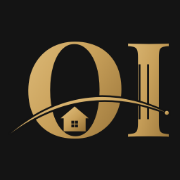
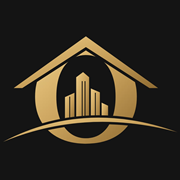
Marca nova: Alex Oliveira & Giselly Oliveira - Corretores de Imoveis
Logo nova (monograma O com telhado e predios) no cabecalho, favicon e
icones; logo completa como imagem de compartilhamento e no topo da pagina
Sobre. Textos da home e da lista de imoveis no plural.

Changed region(s): [[0.0278, 0.1944, 0.9722, 0.8056], [0.5833, 0.2778, 0.6111, 0.3056]]

diff --git a/src/config.ts b/src/config.ts
@@ -1,14 +1,14 @@
 // ===== EDITE AQUI: seus dados aparecem no site inteiro =====
 export const SITE = {
-  nome: "Oliveira's", // 1ª linha do nome no cabeçalho
-  subtitulo: 'Imobiliária', // 2ª linha do nome no cabeçalho
-  marca: "Oliveira's Imobiliária", // nome completo: título da aba, Google, rodapé
+  nome: 'Alex & Giselly Oliveira', // 1ª linha do nome no cabeçalho
+  subtitulo: 'Corretores de Imóveis', // 2ª linha do nome no cabeçalho
+  marca: 'Alex Oliveira & Giselly Oliveira', // nome completo: título da aba, Google, rodapé
   slogan: 'Seu próximo imóvel está aqui', // título do topo da página inicial
   cidade: 'Itanhaém – SP',
   email: '', // preencher quando criar o e-mail do domínio. Vazio = esconde do rodapé
   instagram: 'alexoliveira.imoveis',
   descricao:
-    'Imobiliária em Itanhaém – SP. Compra, venda e locação de casas, apartamentos e terrenos, com atendimento do primeiro contato até a assinatura.',
+    'Corretores de imóveis em Itanhaém – SP. Compra, venda e locação de casas, apartamentos e terrenos, com atendimento do primeiro contato até a assinatura.',
 };
 
 // ===== CORRETORES =====

diff --git a/public/admin/index.html b/public/admin/index.html
@@ -4,7 +4,7 @@
   <meta charset="utf-8" />
   <meta name="viewport" content="width=device-width, initial-scale=1" />
   <meta name="robots" content="noindex" />
-  <title>Painel – Oliveira's Imobiliária</title>
+  <title>Painel – Alex & Giselly Oliveira</title>
 </head>
 <body>
   <script src="https://unpkg.com/decap-cms@^3.0.0/dist/decap-cms.js"></script>

diff --git a/CLAUDE.md b/CLAUDE.md
@@ -1,13 +1,13 @@
-# Projeto: Oliveira's Imobiliária (site dos corretores Alex Oliveira e Giselly Oliveira)
+# Projeto: Alex Oliveira & Giselly Oliveira – Corretores de Imóveis
 
-Site da Oliveira's Imobiliária, com dois corretores: Alex Oliveira e Giselly Oliveira (generalista: compra, venda e locação). No ar em https://aoliveiracorretor.com.br (push na `main` = publica na Netlify). Responda sempre em português.
+Site dos corretores Alex Oliveira e Giselly Oliveira (generalista: compra, venda e locação). Textos do site na 1ª pessoa do plural ("nós"). No ar em https://aoliveiracorretor.com.br (push na `main` = publica na Netlify). Responda sempre em português.
 
 ## Stack
 - Astro 5 (site estático) — páginas em `src/pages`, layout em `src/layouts/Base.astro`
 - Imóveis são arquivos Markdown em `src/content/imoveis/` (schema em `src/content.config.ts`)
 - Painel Decap CMS em `public/admin/` (config.yml precisa espelhar o schema)
 - Hospedagem: Netlify (grátis), build `npm run build`, saída `dist`
-- Dados da imobiliária (`SITE`: nome, cidade, e-mail, Instagram) e dos corretores (`CORRETORES`) centralizados em `src/config.ts`
+- Dados da marca (`SITE`: nome, cidade, e-mail, Instagram) e dos corretores (`CORRETORES`) centralizados em `src/config.ts`
 
 ## Corretores (desde 2026-11-25)
 - `CORRETORES` em `src/config.ts` é uma lista; cada um tem `id`, `nome`, `creci`, `whatsapp` e `bio` (opcional, aparece na página Sobre).
@@ -23,12 +23,12 @@ Site da Oliveira's Imobiliária, com dois corretores: Alex Oliveira e Giselly Ol
 - Tons de apoio derivados: superfície #1C1C1C (cards/rodapé), superfície-2 #242424, texto suave #A8A195, linha #34302A
 - Fontes: Cinzel (títulos) e Montserrat (texto), via Google Fonts em `Base.astro`
 - Tokens em `src/styles/global.css` (`--preto`, `--dourado`, `--dourado-escuro`, `--marfim`, `--fonte-titulo`, `--fonte-texto`…); componentes usam só as variáveis, nada de cor solta
-- Nome da marca (desde 2026-11-24): "Oliveira's Imobiliária". No cabeçalho: `nome` "Oliveira's" + `subtitulo` "Imobiliária"; `marca` = nome completo (aba, Google, rodapé). Tudo em `src/config.ts`. O CRECI é de cada pessoa, por isso fica em `CORRETORES`, não na marca.
+- Nome da marca (desde 2026-11-25, igual à logo completa): "Alex Oliveira & Giselly Oliveira – Corretores de Imóveis". No cabeçalho: `nome` "Alex & Giselly Oliveira" + `subtitulo` "Corretores de Imóveis"; `marca` "Alex Oliveira & Giselly Oliveira" (aba, Google, rodapé). Tudo em `src/config.ts`. O CRECI é de cada pessoa, por isso fica em `CORRETORES`, não na marca. Não usar "Imobiliária" (exige CRECI de pessoa jurídica). Histórico: 2026-11-24 a 25 foi "Oliveira's Imobiliária", antes "Alex Oliveira".
 - Slogan "Seu próximo imóvel está aqui" (título do topo da home) fica em `src/config.ts`
 - Estilo elegante e sóbrio
-- Logo oficial (desde 2026-11-24): monograma "OI" dourado (casa dentro do O, I em forma de prédio, arco atravessando), fundo #141414 (igual ao do site, sem transparência).
-  Arquivos em `public/`: `logo-oi.png` (cabeçalho, recorte 600x375), `favicon.png` (64), `apple-touch-icon.png` (180), `icone-512.png` (imagem padrão de compartilhamento/og:image).
-  Fonte editável (SVG, fonte Playfair Display 700): `C:\Users\alexo\alexcorretor\logo\logo-oi.html`; renders em alta na mesma pasta. A logo antiga "AO" está em `logo\antigo\logo-ao-dourado\`. Se o fundo do site mudar de cor, refazer os recortes.
+- Logo oficial (desde 2026-11-25, feita fora e recebida em JPEG; não redesenhar): monograma "O" dourado com telhado de casa, prédios dentro e arco; e a logo completa com "ALEX OLIVEIRA & GISELLY OLIVEIRA – CORRETORES DE IMÓVEIS". Fundo dos arquivos = #141414 exato (igual ao do site, sem transparência).
+  Arquivos em `public/`: `logo-monograma.png` (cabeçalho, recorte 600x378), `favicon.png` (64), `apple-touch-icon.png` (180), `icone-512.png` (monograma quadrado), `logo-completa.jpg` (1400x870: imagem padrão de compartilhamento/og:image e topo da página Sobre).
+  Originais em `C:\Users\alexo\alexcorretor\logo\`: `monograma-original.jpeg` (1080x1080) e `logo-completa-original.jpeg`; não há SVG (para impressão grande, pedir o vetor a quem fez). Logos antigas em `logo\antigo\` (`logo-oi\`, `logo-ao-dourado\`). Se o fundo do site mudar de cor, refazer os recortes.
 
 ## Contraste (sobre o fundo #141414)
 - Marfim ~15:1, dourado ~7,6:1, texto suave ~7:1 → OK para qualquer texto
@@ -44,6 +44,6 @@ Site da Oliveira's Imobiliária, com dois corretores: Alex Oliveira e Giselly Ol
 
 ## Pendências
 - Preencher CRECI do Alex e CRECI + WhatsApp da Giselly em `CORRETORES`
-- Trocar a logo do cabeçalho por `logo/cabecalho-site-fundo-escuro.svg` e o favicon por `logo/favicon.svg` (arquivos ainda não recebidos)
+- Pedir os arquivos vetoriais (SVG) da logo nova a quem fez, para impressão
 - E-mail do domínio (contato@aoliveiracorretor.com.br)
 - Instagram: bio, templates de post nas cores da marca, posts semanais

diff --git a/LEIA-ME.md b/LEIA-ME.md
@@ -1,4 +1,4 @@
-# Alex Oliveira Imóveis – site
+# Alex Oliveira & Giselly Oliveira – Corretores de Imóveis – site
 
 Site estático (Astro) + painel para cadastrar imóveis (Decap CMS).
 Custo: só o domínio (~R$ 40/ano no Registro.br). Hospedagem grátis na Netlify.
